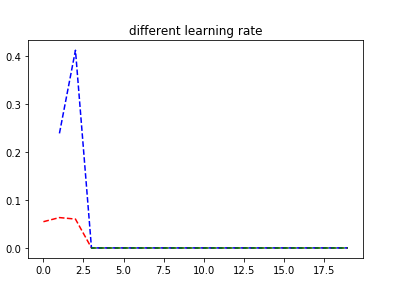
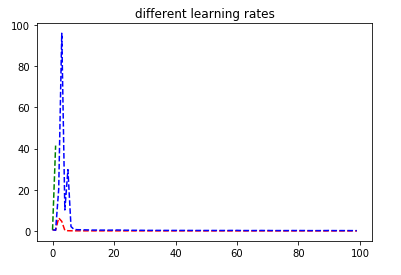
added report things

Changed region(s): [[0.0, 0.0291, 0.9277, 0.9309]]

diff --git a/hw1-report-andrade.html b/hw1-report-andrade.html
@@ -1,0 +1,227 @@
+
+<html>
+<head>
+<title> CS440/640 Homework Template: HW1 Pauline Ramirez  </title>
+<style>
+<!--
+body{
+font-family: 'Trebuchet MS', Verdana;
+}
+p{
+font-family: 'Trebuchet MS', Times;
+margin: 10px 10px 15px 20px;
+}
+h3{
+margin: 5px;
+}
+h2{
+margin: 10px;
+}
+h1{
+margin: 10px 0px 0px 20px;
+}
+div.main-body{
+align:center;
+margin: 30px;
+}
+hr{
+margin:20px 0px 20px 0px;
+}
+-->
+</style>
+</head>
+
+<body>
+<center>
+<a href="http://www.bu.edu"><img border="0" src="http://www.cs.bu.edu/fac/betke/images/bu-logo.gif"
+width="119" height="120"></a>
+</center>
+
+<h1>Logistic Regression and Neural Networks</h1>
+<p> 
+ CS 440 P1 <br>
+ Jacquelyn Andrade <br>
+ Team Members:
+ Pauline Ramirez, Joseph Cho<br>
+    February 22, 2017
+</p>
+
+<div class="main-body">
+<hr>
+<h2> Problem Definition </h2>
+
+
+<p> In this assignment, we are trying to implement both a logistic regression classifier and a neural network classifier. We then train those two classes so that they can make informed decisions based on linear and nonlinear data inputs. <br><br>
+
+This is useful for image recognition and machine learning. You can take a neural network, train it using already classified inputs, and then use that trained neural network to recognize other images or make a decision based on its already given data. <br><br>
+
+The difficulty is in determining the learning rate or the number of hidden nodes in the hidden layer to put. There is a tradeoff between performance and accuracy. Another difficulty is that nonlinear is not as easy to classify since very complex data may need many hidden nodes that the class may not be able to compute efficiently.
+
+<br> <br>Here are the learning objectives: <br>
+
+<ol>
+	<li>Understand how neural networks work.</li>
+	<li>Implement a logistic regression classifier, and a neural network classifier.</li>
+	<li>Understand the role of different parameters of a neural network, such as learning rate.</li>
+	<li>Learn how to evaluate a classifier using metrics like classification accuracy and confusion matrices.</li>
+
+</ol>
+
+
+</p>
+
+<hr>
+<h2> Method and Implementation </h2>
+
+<p>We followed the skeleton code given to us, and the pseudocode that was provided on Piazza. <br><br>
+
+For <em>logistic regression classifier</em>, we take in a learning rate and the dimmensions for the input and output. We then compute the softmax scores given our input data, and find the average cost of the softmax scores to find the cost. The predict function then also computes softmax scores but makes a decision based upon which probability is highest. The predict function uses the compute cost function and backwards propogation to minimize cost and reassign weights until convergence is reached. Convergence is reached when the previous cost and current cost difference is minimal and any other further iterations will also be minimal. <br><br>
+
+For <em>neural network classifier</em>, we take in a learning rate (epsilon), input and output dimensions, and number of hidden nodes to use for the hidden layer. In the compute_cost function we used the sigmoid function to compute softmax scores. Instead of calculating the mean score, we calculate the average loss with respect to the weights. In the predict function we once again compute the softmax scores and make a decision based on the highest loss value as this will have more effect on weights and classification in other layers. The fit function we do forward propogation (computing softmax) and backward propogation. Backward propogation consists of computing the hidden layer weight values first (error or delta3) by computing desired_output - computed_output and applying it to our sigmoid prime function. We then compute the previous layer by applying the dot product of the error (delta3) and the weights and multiplying by sigmoid prime. Given the new values computed we reassign weights nd biases.
+
+</p>
+
+<hr>
+<h2>Experiments</h2>
+
+	The first experiment was switching between linear and non linear data for the Logistic Regression Classifier. <br><br>
+
+	In this first image we used linear data with 2 input dimensions, 2 output dimensions, and a learning rate of 0.01.
+
+	<img src="images/problem1.png">
+
+	<br><br><br>
+
+	In the next image we used non-linear data with 2 input dimensions, 2 output dimensinos, and a learning rate of 0.01. As seen, logistic regression cannot accurately classify non-linear data as it is a linear classifier:
+	<br>
+	<img src="images/problem1nonlinear.png">
+
+	<br>
+
+	The next experiment was to change the number of nodes in the hidden layer for the Neural Network class. Here is the result of having 2 input dimensions, 2 output dimensions, learning rate of 0.01, and 2 nodes. The data is able to classify correctly, even better than the logistic regression. <br>
+
+	<img src="images/p32nodesfinal.png"> <br>
+
+	Here is the result of having 10 nodes. We see that the classifier tends to still predict correctly based on linear data.<br>
+
+	<img src="images/p310nodesfinal.png"> <br>
+
+	<br><br><br>
+
+	The next experiment was trying nonlinear data for the neutral network using 4 nodes. Given the 2 input dimension, 2 output dimension, and 0.01 learning rate the results for non-linear are as follows. We find that our classfication does not fit the model precisely as there is some error, but is still able to predict accurately nontheless.<br>
+
+	<img src="images/p3nonlinear2nodes.png"> <br>
+
+	Here are the results using nonlinear data with 10 nodes in the hidden layer with the same settings as before. We find that the more hidden nodes, the better the classification, however, the longer it takes to compute.<br>
+
+	<img src="images/p3nonlinear10nodes.png"> <br> 
+
+	<br><br><br>
+
+	We experimented with training the Logistic Regression classifier to recognize digits. To run these tests we ran fit function on the training data and then ran predict on our test function. We then compared our predicted values to the actual values.<br><br>
+
+	The confusion matrix and accuracy is shown below using 2 nodes: <br><br>
+
+	<img src="images/digitsLR.png"> <br><br>
+
+	Here are the results using the neural network with 10 nodes in the hidden layer. Again we find that the higher the number of nodes there are, the more accurate the system is at correctly classifying, but it does take longer to compute.<br><br>
+
+	<img src="images/digitsNN.png"> <br><br>
+
+</p>
+
+
+<hr>
+<h2> Results</h2>
+
+
+<p>
+	<strong>Question 2:</strong> Can your logistic regression classifier learn non-linear decision boundaries? Why or why not? <br><br>
+
+	<em>No it cannot because the prediction function for a logistic regression classifier is linear. The equation used for forwards propogation and softmax have a linear output.</em>
+
+	<br><br>
+	<strong>Question 3:</strong> Can your neural network model (with one hidden layer) learn non-linear decision boundaries? Why or why not? <br><br>
+
+	Yes it can because the output from our model uses a nonlinear activation sigmoid function. As seen from our models in the experimentation pictures, neural networks are allowed to learn non-linear boundaries due to the non-linear nature used in our sigmoid.
+
+	<br><br>
+	<strong>Question 4:</strong> What effect does learning rate have on how your neural network is trained? Illustrate your answer by training your model using different learning rates. Provide plots illustrating the total cost of your model over time for different settings of the learning rate. <br><br>
+
+	Too high of a learning rate will cause the accuracy of the neural network to decline. Ideally we want learning rates that are low to take bigger steps to the minimum. In the graph we notice that our trials show that lower learning rates took bigger jumps in minimizing cost as opposed to larger learning rates. In addition lower learning rates have a tendency to keep costs fairly low most of the time without fluctuation. <br><br>
+
+	In the below graph, each line represents a different learning rate:
+
+	<ul>
+		<li>red: a learning rate of 0.01</li>
+		<li>blue: a learning rate of 0.1</li>
+		<li>green: a learning rate of 0.2</li>
+
+	</ul>
+
+	Where the x axis is the cost, and the y is time.<br>
+
+	<img src="images/difflearningrate.png"> <br> 
+
+	<br><br><br>
+	<strong>Question 5:</strong> What effect does the number of nodes in the hidden layer have on how your neural network is trained? Illustrate your answer by training your model using different numbers of hidden layer nodes. Provide plots showing the decision boundaries learned by your model for different settings of the number of nodes in the hidden layer. <br><br>
+
+	As we add more nodes to the hidden layer, the neural network becomes more accurate. This is shown in the image below: <br>
+
+	As we saw in the images given in the experiments section we find that the more nodes in the hidden layer, the more accurate our system is. The system is able to easily distinguish between red and blue sections.
+
+	In the below graph, each line represents a different amount of nodes in the hidden layer. The X axis is cost and Y is time.
+	<ul>
+		<li>red: 5 nodes in the hidden layer</li>
+		<li>blue: 20 nodes in the hidden layer</li>
+		<li>green: 40 nodes in the hidden layer</li>
+
+	</ul>
+
+	We notice that initially the larger the number of nodes the greater the initial cost, but it quickly decreases and the system begins to make accurate predictions as cost is quickly minimized. 
+
+	<br>
+
+	<img src="images/diffnumbernodes.png"> <br> 
+
+</p>
+
+<hr>
+<h2> Discussion </h2>
+
+<p> We are fairly satisfied with the accuracy of our neural network, as for our neural networks accuracy for digits we were able to achieve excellent accuracy.<br><br>
+
+<img src="images/digitsNN.png"> <br> 
+
+</p>
+
+<hr>
+<h2> Conclusions </h2>
+
+<p>
+We have determined that Logistic Regression is good on linear data but not linear data. Neural Networks seem to work better for both linear and non-linear data overall and have a superior accuracy. 
+</p>
+
+
+<hr>
+<h2> Credits and Bibliography </h2>
+
+
+<p>Sources used:
+
+<ul>
+	<li>http://www.wildml.com/2015/09/implementing-a-neural-network-from-scratch/</li>
+	<li> http://www.kdnuggets.com/2016/10/beginners-guide-neural-networks-python-scikit-learn.html </li>
+
+</ul>
+
+</p>
+
+
+<hr>
+</div>
+</body>
+
+
+
+</html>
